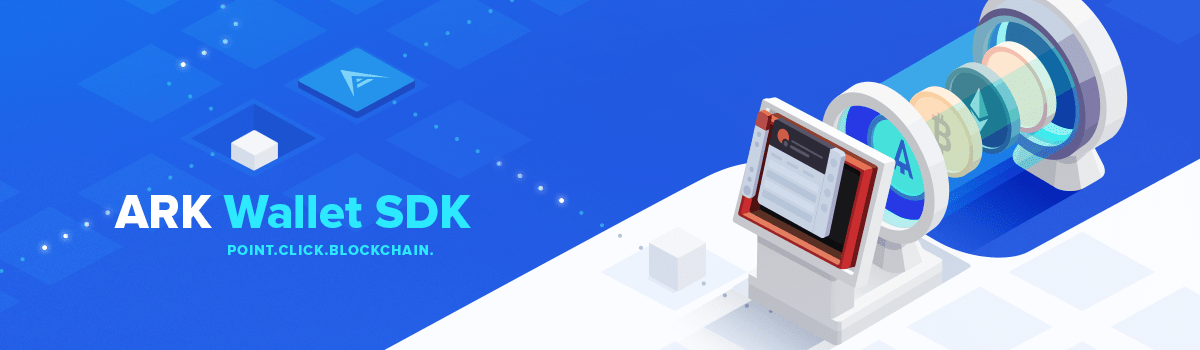
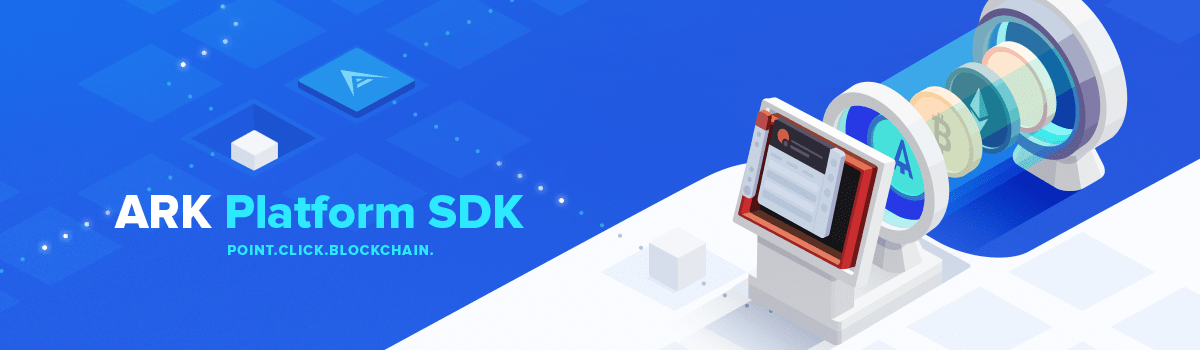
chore: readme and cleanup

Changed region(s): [[0.185, 0.5429, 0.4317, 0.6571], [0.8633, 0.4, 0.8942, 0.4286]]

diff --git a/README.md b/README.md
@@ -1,4 +1,4 @@
-# ARK Wallet SDK
+# ARK Platform SDK
 
 <p align="center">
     <img src="./banner.png" />
